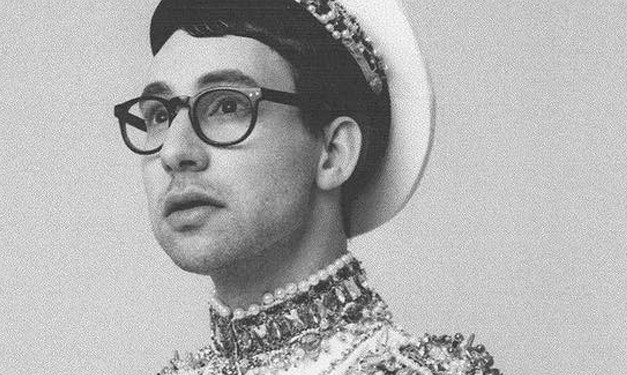
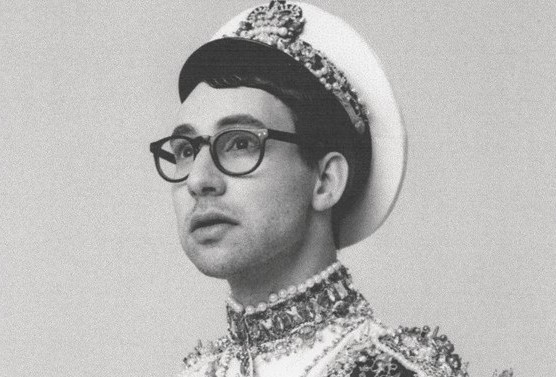
ajuste nas imagens e estilização

diff --git a/index.html b/index.html
@@ -7,7 +7,7 @@
     <meta http-equiv="X-UA-Compatible" content="ie=edge">
     <link href="https://fonts.googleapis.com/css?family=Nothing+You+Could+Do" rel="stylesheet">
     <title>sound of you</title>
-    <link rel="stylesheet" href="styles.css">
+    <link rel="stylesheet" href="css/styles.css">
 </head>
 
 <body>
@@ -27,16 +27,18 @@
     <!-- cards -->
     <main>
         <section class="cartoes">
-            <div class="card primeiro">
+            <div class="card">
                 <div class="container front">
-                    <!--<img src="img/its-jack-ie-bleachers.jpg" alt="">-->
+                    <img src="img/its-jack-ie-bleachers.jpg" alt="">
                     <div class="nomeMusica">
                         <p>Don't take the money</p>
                         <p>Bleachers</p>
                     </div>
                 </div>
-                
-                <div class="card back"> <!-- não aparece ao virar-->
+
+                <div class="card back">
+                    <!-- não aparece ao virar-->
+                    <h4>Don't take the money</h4>
                     <p class="descricao">
                         Lorem ipsum dolor sit amet consectetur adipisicing elit. Consequuntur ullam qui, quasi sunt
                         deleniti eos ab autem corporis maiores sed impedit magnam ad, modi repudiandae odio?
@@ -44,35 +46,96 @@
                     </p>
                 </div>
             </div>
-            </div>
-            <div class="card segundo">
-                <div class="nomeMusica">
-                    <p>Sea of love</p>
-                    <p>Cat Power</p>
+            
+            <div class="card">
+                <div class="container front">
+                    <img src="img/catpowertop.jpg" alt="">
+                    <div class="nomeMusica">
+                        <p>Sea of love</p>
+                        <p>Cat Power</p>
+                    </div>
+                </div>
+
+                <div class="card back">
+                    <!-- não aparece ao virar-->
+                    <p class="descricao">
+                        Lorem ipsum dolor sit amet consectetur adipisicing elit. Consequuntur ullam qui, quasi sunt
+                        deleniti eos ab autem corporis maiores sed impedit magnam ad, modi repudiandae odio?
+                        Perspiciatis fuga animi blanditiis.
+                    </p>
                 </div>
             </div>
-            <div class="card terceiro">
-                <div class="nomeMusica">
-                    <p>Make you feel my love</p>
-                    <p>Adele</p>
+            
+            <div class="card">
+                <div class="container front">
+                    <img src="img/adele-video-xavier-dolan-bts-ss01.jpg" alt="">
+                    <div class="nomeMusica">
+                        <p>Make you feel my love</p>
+                        <p>Adele</p>
+                    </div>
+                </div>
+
+                <div class="card back">
+                    <!-- não aparece ao virar-->
+                    <p class="descricao">
+                        Lorem ipsum dolor sit amet consectetur adipisicing elit. Consequuntur ullam qui, quasi sunt
+                        deleniti eos ab autem corporis maiores sed impedit magnam ad, modi repudiandae odio?
+                        Perspiciatis fuga animi blanditiis.
+                    </p>
                 </div>
             </div>
-            <div class="card quarto">
-                <div class="nomeMusica">
-                    <p>utopia</p>
-                    <p>Lykke Li</p>
+            <div class="card">
+                <div class="container front">
+                    <img src="img/DhmNMFiXkAYUnlp.jpg" alt="">
+                    <div class="nomeMusica">
+                        <p>utopia</p>
+                        <p>Lykke Li</p>
+                    </div>
+                </div>
+
+                <div class="card back">
+                    <!-- não aparece ao virar-->
+                    <p class="descricao">
+                        Lorem ipsum dolor sit amet consectetur adipisicing elit. Consequuntur ullam qui, quasi sunt
+                        deleniti eos ab autem corporis maiores sed impedit magnam ad, modi repudiandae odio?
+                        Perspiciatis fuga animi blanditiis.
+                    </p>
                 </div>
             </div>
-            <div class="card quinto">
-                <div class="nomeMusica">
-                    <p>It's always you</p>
-                    <p>Chet Baker</p>
+            <div class="card">
+                <div class="container front">
+                    <img src="img/chet baker 8130175874_941ecefbb8_b.jpg" alt="">
+                    <div class="nomeMusica">
+                        <p>It's always you</p>
+                        <p>Chet Baker</p>
+                    </div>
+                </div>
+
+                <div class="card back">
+                    <!-- não aparece ao virar-->
+                    <p class="descricao">
+                        Lorem ipsum dolor sit amet consectetur adipisicing elit. Consequuntur ullam qui, quasi sunt
+                        deleniti eos ab autem corporis maiores sed impedit magnam ad, modi repudiandae odio?
+                        Perspiciatis fuga animi blanditiis.
+                    </p>
                 </div>
             </div>
-            <div class="card sexto">
-                <div class="nomeMusica">
-                    <p>Make you feel my love</p>
-                    <p>Adele</p>
+            <div class="card">
+                <div class="container front">
+                    <img src="img/sinead_oconnor.jpg" alt="">
+                    <div class="nomeMusica">
+                        <p>Nothing compares 2 U</p>
+                        <p>Sinéad O'Connor</p>
+                    </div>
+                </div>
+
+                <div class="card back">
+                    <!-- não aparece ao virar-->
+                    <p class="descricao">
+                        Lorem ipsum dolor sit amet consectetur adipisicing elit. Consequuntur ullam qui, quasi sunt
+                        deleniti eos ab autem corporis maiores sed impedit magnam ad, modi repudiandae odio?
+                        Perspiciatis fuga animi blanditiis.
+                    </p>
                 </div>
             </div>
         </section>

diff --git a/css/styles.css b/css/styles.css
@@ -3,6 +3,7 @@ body {
   font-family: helvetica, sans-serif;
   max-width: 1000px;
   margin: 0 auto;
+  background-color: rgb(209, 212, 219);
 }
 
 header {
@@ -48,39 +49,25 @@ hr {
 .card {
   flex-basis: 30%;
   height: 230px;
-  background-size: cover;
   margin: 15px 10px;
   border-radius: 10px;
   backface-visibility: hidden;
 }
 
-.container {
+
+/* FRONT */ 
+.front,
+.back {
   transition: transform 0.5s;
   transform-style: preserve-3d;
+  height: 100%;
+  position: relative;
 }
 
-.primeiro {
-  background-image: url(img/its-jack-ie-bleachers.jpg);
-}
-
-.segundo {
-  background-image: url(img/07ab1bd0ee800997d3b627a1559027cd.jpg);
-}
-
-.terceiro {
-  background-image: url(img/adele-video-xavier-dolan-bts-ss01.jpg);
-}
-
-.quarto {
-  background-image: url(img/lykke_li.jpg);
-}
-
-.quinto {
-  background-image: url(img/chet-baker.jpg);
-}
-
-.sexto {
-  background-image: url(img/sinead_oconnor.jpg);
+.container img {
+  height: 100%;
+  width: 100%;
+  border-radius: 10px;
 }
 
 .nomeMusica {
@@ -89,7 +76,18 @@ hr {
   color: rgba(255, 255, 255, 1);
   background-color: black;
   background: linear-gradient(rgba(0, 0, 0, 1), rgba(0, 0, 0, .4));
-  padding: 0 8px;
+  margin: 0;
+  position: absolute;
+  width: 100%;
+  bottom: 0;
+  border-bottom-left-radius: 10px;
+  border-bottom-right-radius: 10px;
+}
+
+.nomeMusica p {
+  font-size: 15px;
+  margin-left: 9px;
+  margin-right: 9px;
 }
 
 .card:hover .container {
@@ -101,7 +99,12 @@ hr {
   backface-visibility: hidden;
 }
 
+
+/* BACK */
 .back {
-  background: red; /* não aparece */
   transform: rotateY(180deg);
+  border-radius: 10px;
+  display: block;
+  background-image: linear-gradient(60deg, #29323c 0%, #485563 100%);
+
 }
